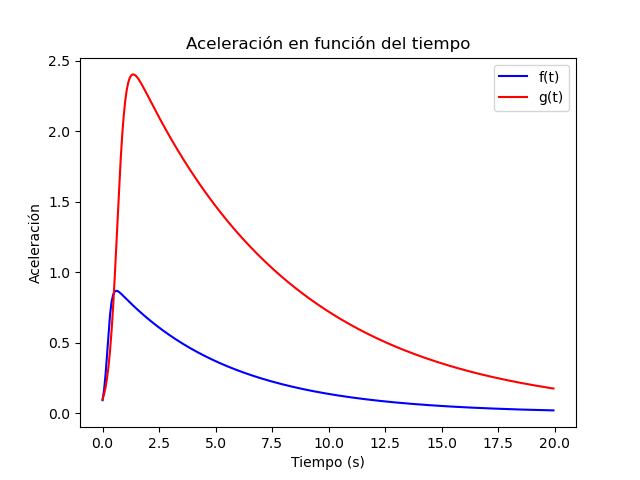
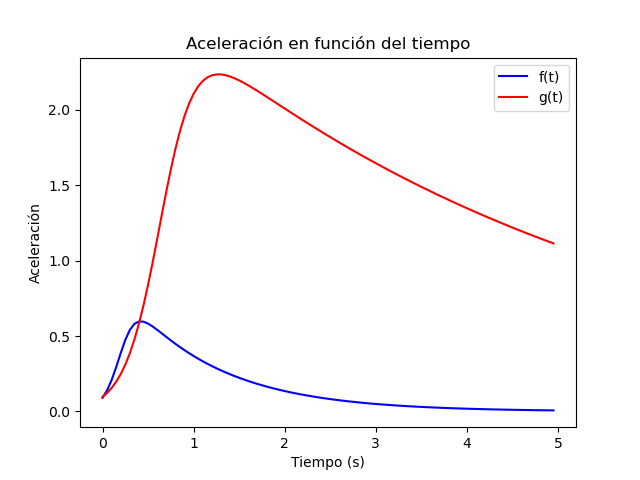
Se agrega al código de particulas la generación de las gráficas de a vs t y v vs t. Se optimiza el código.

diff --git a/función_coordenadas_polares_particulas.py b/función_coordenadas_polares_particulas.py
@@ -40,18 +40,52 @@ def init():
 
 # Para la CME1
 tr1 = 0.1
-td1 = 5
+td1 = 1
 ar1 = 0.1
 ad1 = 1
 v01 = 0.2
 # Para la CME2
 tr2 = 0.2
-td2 = 7
+td2 = 5
 ar2 = 0.1
 ad2 = 3
 v02 = 0
 
+    # --- Aceleración 1 ---
+def f(s):
+    return (ar1 * ad1) / (ad1 * np.exp(-s / tr1) + ar1 * np.exp(s / td1))
+
+def x_of1(t):
+    integrand = lambda s: (t - s) * f(s)
+    val, err = quad(integrand, 0, t)
+    return val
+
+def g(s):
+    return (ar2 * ad2) / (ad2 * np.exp(-s / tr2) + ar2 * np.exp(s / td2))
+
+def x_of2(t):
+    integrand = lambda s: (t - s) * g(s)
+    val, err = quad(integrand, 0, t)
+    return val
+
+
+#Expansión radial
+def expansion_factor1(time):
+    return time**4
+def expansion_factor2(time):
+    return time**4
+
 tiempo_inicial = 0  # tiempo inicial en segundos
+############################################################################################
+# Listas para almacenar los valores de f(t) y g(t)
+f_values = []
+g_values = []
+time_values = []
+
+# Listas para almacenar los valores de velocidad
+v_values_1 = []
+v_values_2 = []
+
 
 ########################################################################################
 
@@ -74,24 +108,15 @@ r2 = np.append(r2, r2[0])
 def update(frame):
     # tiempo en segundos
     t = (frame / fps) + tiempo_inicial
-
-    # --- Aceleración 1 ---
-    def f(s):
-        return (ar1 * ad1) / (ad1 * np.exp(-s / tr1) + ar1 * np.exp(s / td1))
-
-    def x_of1(t):
-        integrand = lambda s: (t - s) * f(s)
-        val, err = quad(integrand, 0, t)
-        return val
-
-    def g(s):
-        return (ar2 * ad2) / (ad2 * np.exp(-s / tr2) + ar2 * np.exp(s / td2))
-
-    def x_of2(t):
-        integrand = lambda s: (t - s) * g(s)
-        val, err = quad(integrand, 0, t)
-        return val
-
+    time_values.append(t)
+    # --- Velocidad 1 ---
+    def v1(s):
+        return v01 + quad(f, 0, s)[0]  # Integrar f(s) desde 0 hasta s
+    
+    # --- Velocidad 2 ---
+    def v2(s):
+        return v02 + quad(g, 0, s)[0]  # Integrar g(s) desde 0 hasta s
+    
     # desplazamiento total en x
     dx1 = v01 * t + x_of1(t)
     dx2 = v02 * t + x_of2(t)
@@ -108,13 +133,7 @@ def update(frame):
     theta1_new = np.arctan2(y1, x1)
     r2_new = np.sqrt(x2**2 + y2**2)
     theta2_new = np.arctan2(y2, x2)
-
     # --- Expansión radial ---
-    def expansion_factor1(time):
-        return time**4
-    def expansion_factor2(time):
-        return time**4
-    
     r11 = (r1_new * t) + (expansion_factor1(t))
     r22 = (r2_new * t) + (expansion_factor2(t))
     # --- Actualizar las posiciones de las partículas en coordenadas polares ---
@@ -125,6 +144,13 @@ def update(frame):
     line1.set_data(theta1_new, r11)
     line2.set_data(theta2_new, r22)
     ax.set_title(f"t = {t:.1f} s")
+        # Almacenar los valores de f(t) y g(t)
+    f_values.append(f(t))
+    g_values.append(g(t))
+
+    # Almacenar los valores de velocidad
+    v_values_1.append(v1(t))
+    v_values_2.append(v2(t))
     return line1, line2, scatter1, scatter2
 
 ######################################################################################
@@ -149,23 +175,6 @@ def update2(frame, Dr1, Dr2):
     # tiempo en segundos
     t = (frame / fps) + tiempo_inicial
 
-    # --- Aceleración 1 ---
-    def f(s):
-        return (ar1 * ad1) / (ad1 * np.exp(-s / tr1) + ar1 * np.exp(s / td1))
-
-    def x_of1(t):
-        integrand = lambda s: (t - s) * f(s)
-        val, err = quad(integrand, 0, t)
-        return val
-
-    def g(s):
-        return (ar2 * ad2) / (ad2 * np.exp(-s / tr2) + ar2 * np.exp(s / td2))
-
-    def x_of2(t):
-        integrand = lambda s: (t - s) * g(s)
-        val, err = quad(integrand, 0, t)
-        return val
-
     # desplazamiento total en x
     dx1 = v01 * t + x_of1(t)
     dx2 = v02 * t + x_of2(t)
@@ -183,14 +192,9 @@ def update2(frame, Dr1, Dr2):
     r2_new = np.sqrt(x2**2 + y2**2)
     theta2_new = np.arctan2(y2, x2)
     # --- Expansión radial ---
-    def expansion_factor1(time):
-        return time**4
-    def expansion_factor2(time):
-        return time**4
+
     r1 = (r1_new * t) + (expansion_factor1(t))
     r2 = (r2_new * t) + (expansion_factor2(t))
-
-
 # --- Actualizar las posiciones de las partículas en coordenadas polares ---
     scatter11.set_offsets(np.column_stack((theta1_new, r1)))
     scatter22.set_offsets(np.column_stack((theta2_new, r2)))
@@ -218,23 +222,6 @@ def update3(frame, Dr1, Dr2):
     # tiempo en segundos
     t = (frame / fps) + tiempo_inicial
 
-    # --- Aceleración 1 ---
-    def f(s):
-        return (ar1 * ad1) / (ad1 * np.exp(-s / tr1) + ar1 * np.exp(s / td1))
-
-    def x_of1(t):
-        integrand = lambda s: (t - s) * f(s)
-        val, err = quad(integrand, 0, t)
-        return val
-
-    def g(s):
-        return (ar2 * ad2) / (ad2 * np.exp(-s / tr2) + ar2 * np.exp(s / td2))
-
-    def x_of2(t):
-        integrand = lambda s: (t - s) * g(s)
-        val, err = quad(integrand, 0, t)
-        return val
-
     # desplazamiento total en x
     dx1 = v01 * t + x_of1(t)
     dx2 = v02 * t + x_of2(t)
@@ -252,14 +239,8 @@ def update3(frame, Dr1, Dr2):
     r2_new = np.sqrt(x2**2 + y2**2)
     theta2_new = np.arctan2(y2, x2)
     # --- Expansión radial ---
-    def expansion_factor1(time):
-        return time**4
-    def expansion_factor2(time):
-        return time**4
     r1 = (r1_new * t) + (expansion_factor1(t))
     r2 = (r2_new * t) + (expansion_factor2(t))
-
-
 # --- Actualizar las posiciones de las partículas en coordenadas polares ---
     scatter111.set_offsets(np.column_stack((theta1_new, r1)))
     scatter222.set_offsets(np.column_stack((theta2_new, r2)))
@@ -281,5 +262,30 @@ out_path = "curva_polar_particulas.gif"
 ani.save(out_path, writer=PillowWriter(fps=fps), dpi=200)
 
 plt.close(fig)
+
+# Crear una nueva figura para graficar f(t) y g(t)
+plt.figure()
+plt.plot(time_values, f_values, label='f(t)', color='blue')
+plt.plot(time_values, g_values, label='g(t)', color='red')
+plt.xlabel('Tiempo (s)')
+plt.ylabel('Aceleración')
+plt.title('Aceleración en función del tiempo')
+plt.legend()
+plt.savefig('aceleracion_vs_tiempo.png')
+plt.grid(True)
+plt.show()
+
+# Crear una nueva figura para graficar las velocidades
+plt.figure()
+plt.plot(time_values, v_values_1, label='v1(t)', color='blue')
+plt.plot(time_values, v_values_2, label='v2(t)', color='red')
+plt.xlabel('Tiempo (s)')
+plt.ylabel('Velocidad')
+plt.title('Velocidad en función del tiempo')
+plt.legend()
+plt.savefig('velocidad_vs_tiempo.png')
+plt.grid(True)
+plt.show()
+
 
 out_path
